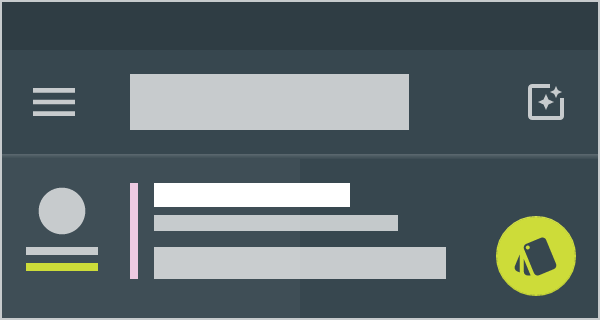
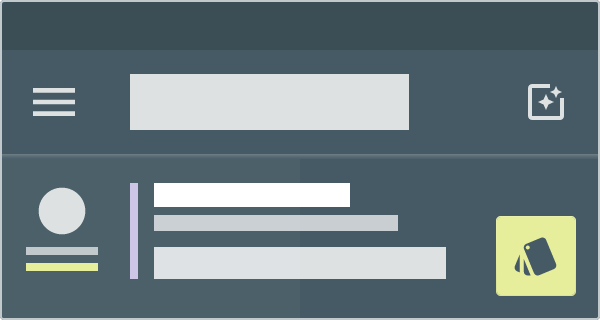
Version 4.0.0

diff --git a/README.md b/README.md
@@ -17,15 +17,15 @@ A text (JSON) based theme engine for Android 4.0 (API 14) and above.
 
 ```
 {
-  "backgroundColor": "#37474F",
+  "backgroundColor": "#455A64",
   "tintBackgroundColor": "auto",
   "surfaceColor": "auto",
   "tintSurfaceColor": "auto",
-  "primaryColor": "#37474F",
+  "primaryColor": "#FF455A64",
   "tintPrimaryColor": "auto",
   "primaryColorDark": "auto",
   "tintPrimaryColorDark": "auto",
-  "accentColor": "#CDDC39",
+  "accentColor": "#FFE6EE9C",
   "tintAccentColor": "auto",
   "accentColorDark": "auto",
   "tintAccentColorDark": "auto",
@@ -150,7 +150,7 @@ It can be installed by adding the following dependency to your `build.gradle` fi
 ```groovy
 dependencies {
     // For AndroidX enabled projects.
-    implementation 'com.pranavpandey.android:dynamic-theme:3.2.0'
+    implementation 'com.pranavpandey.android:dynamic-theme:4.0.0'
 }
 ```
 
